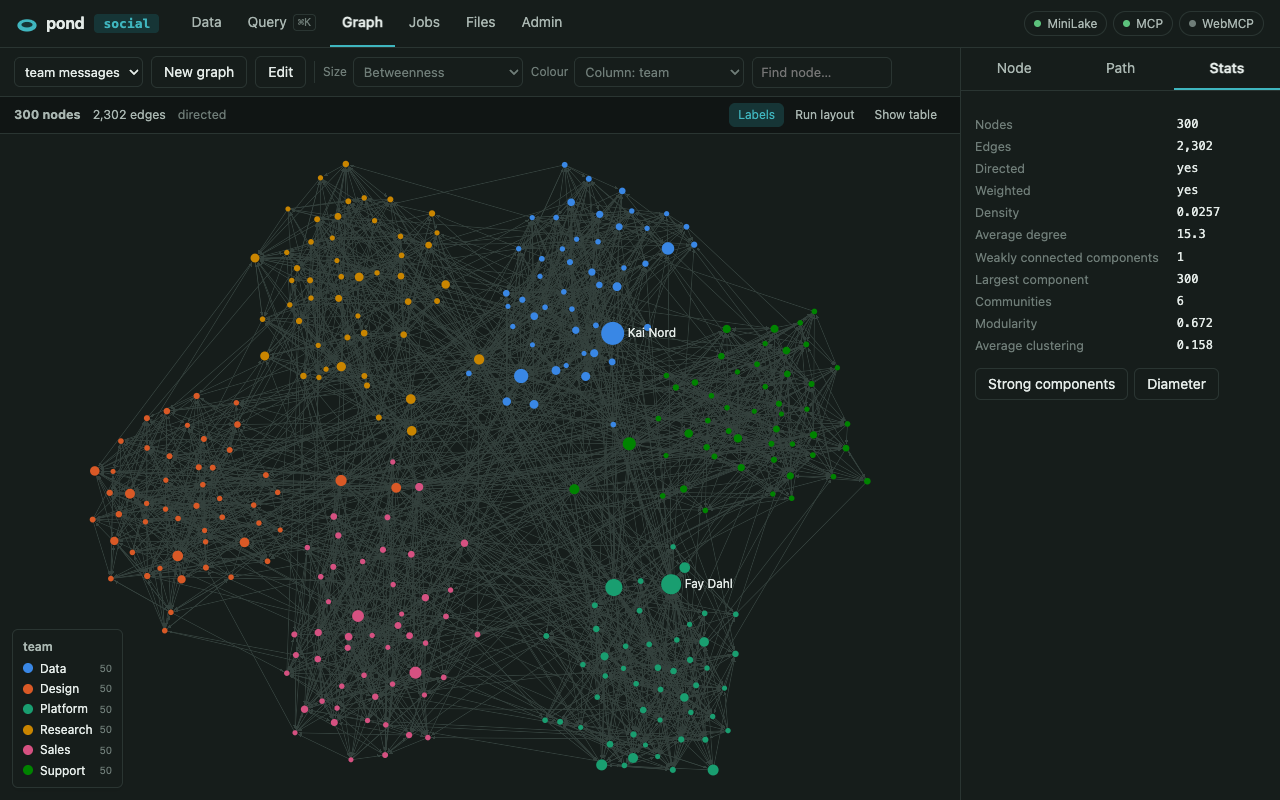
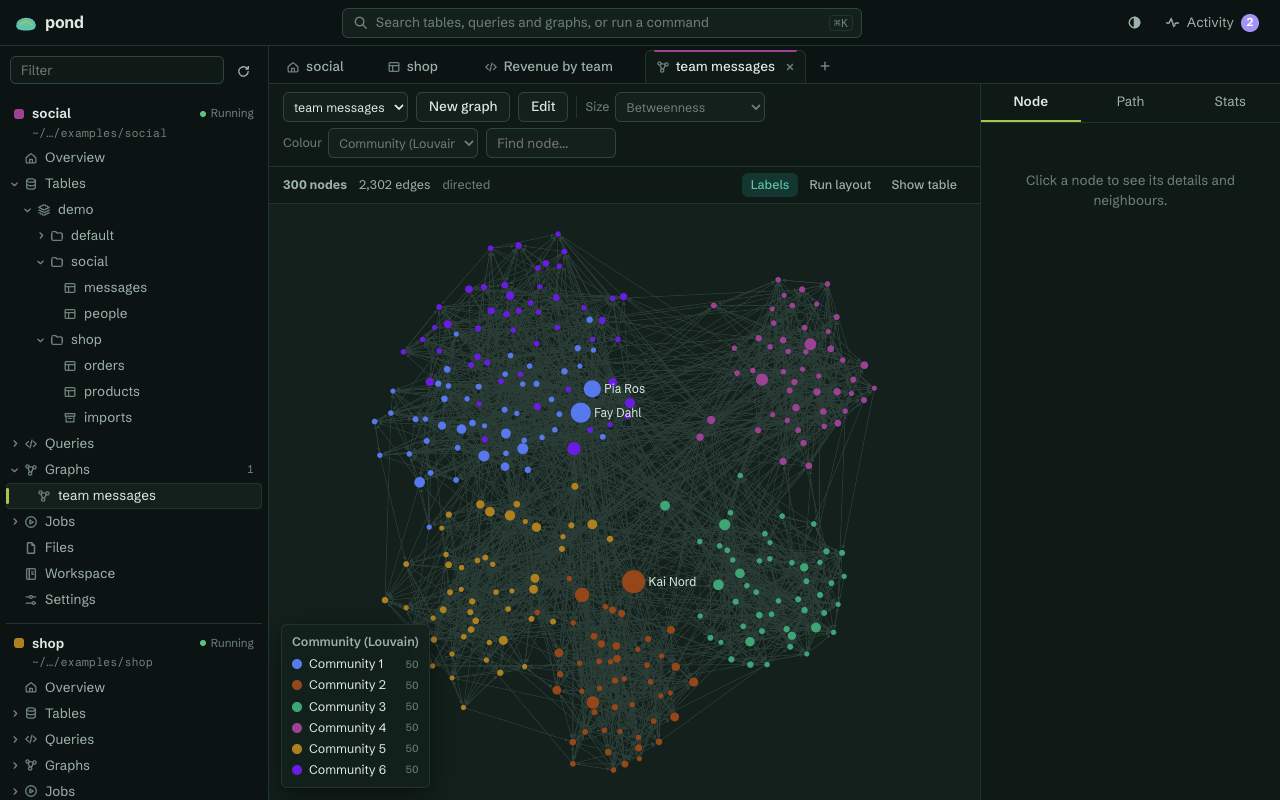
Add a second example context and document the workbench
examples/shop is a small shop whose customers are examples/social's
people, for trying Copy to… and joins across contexts. The README
describes the workbench, multiple contexts and POND_UI_DIR, with new
screenshots.

diff --git a/README.md b/README.md
@@ -1,12 +1,12 @@
 # pond
 
-A local data lake per directory. Run `pond` in a folder and you get a [MiniLake](https://dmux.github.io/minilake) (a local Databricks emulator) for that folder, a web UI to work with it, and **MCP** and **WebMCP** endpoints so agents can work with it too.
+A local data lake per directory. Run `pond` in a folder and you get a [MiniLake](https://dmux.github.io/minilake) (a local Databricks emulator) for that folder, a web UI to work with it, and **MCP** and **WebMCP** endpoints so agents can work with it too. Run it in several folders and one page shows all of their lakes side by side.
 
 Use it to try out Databricks-style catalogs, Delta tables, SQL and PySpark jobs on your own machine, with each project's data kept separate and next to the project.
 
 <picture>
   <source media="(prefers-color-scheme: dark)" srcset="docs/images/graph-dark.png">
-  <img alt="The Graph tab showing the example messaging network: 300 people coloured by team in six clusters, sized by betweenness, with graph statistics in the side panel" src="docs/images/graph-light.png">
+  <img alt="The pond workbench with two contexts, social and shop, in the navigator, and the example messaging network open in a graph tab: 300 people coloured by community in six clusters" src="docs/images/graph-light.png">
 </picture>
 
 ## Requirements
@@ -97,7 +97,9 @@ Each directory is its own **context**, so data from different projects never mix
 - **One MiniLake container** runs per context, named `pond-<name>-<hash>-minilake`, on its own Docker network, `pond-<name>-<hash>`. MiniLake's Spark job containers join that network, so they are scoped to the context and can call back into its MiniLake.
 - **The URL is stable.** The context remembers its UI port, so an MCP registration keeps pointing at the same context. If another program holds that port, pond uses a free one for that run and tells you which MCP registrations won't reach it.
 - **One pond per context.** The running pond holds a lock on `.pond/lock`, so a second `pond` in the same directory points you at the first one instead of starting another lake.
-- **The context name is visible everywhere:** in the terminal banner, the UI header, the browser tab title, the suggested MCP server name and WebMCP's `get_view` tool.
+- **The context name is visible everywhere:** in the terminal banner, the UI's navigator and tabs (each context has its own colour), the browser tab title, the suggested MCP server name and WebMCP's `get_view` tool.
+- **Every pond's UI shows every context.** Open any of them and the navigator lists all running contexts, plus recently used ones that are stopped, with the command to start them. Tables, queries and graphs from different directories open as tabs side by side. Requests for another context go through the pond you have open, so the page stays on one origin. MCP stays per context, so an agent works in one lake at a time.
+- **Copy a table between contexts** with **Copy to…** on its page. It is copied as it is then, through a Parquet file, so the copy doesn't change when the original does.
 
 Ctrl-C stops the context gracefully (MiniLake snapshots its state), then removes every container on the context's network and the network itself. If pond was killed, the next `pond` in that directory cleans up the leftovers first.
 
@@ -135,7 +137,9 @@ pond examples/social
 
 ![Terminal output of pond up seeding the example, and pond ls listing the running context](docs/images/cli.png)
 
-In the **Data** tab, open `demo.social.messages`, choose **Open as graph**, and pick `demo.social.people` as the node table with `name` as the label.
+In the navigator, open **Tables** → `demo` → `social` → `messages`, choose **Open as graph**, and pick `demo.social.people` as the node table with `name` as the label.
+
+[`examples/shop`](examples/shop/pond-seed) is a second context: a web shop with products and 1,200 orders whose customer ids are the people of `examples/social`. Run both (`pond examples/social` and `pond examples/shop` in two terminals) to try working across contexts: copy `shop.sales.orders` into `social` with **Copy to…**, then join it with `demo.social.people` there.
 
 ## Snapshots
 
@@ -155,14 +159,24 @@ Whether shared or not, pond refuses requests to the lake that another web page s
 
 ## UI
 
-| Section | What you can do |
+The UI is a workbench:
+
+- **The navigator** on the left lists each context with its tables (catalog → schema → table), saved queries, graphs and jobs, plus its files, workspace and settings. Filter it from the box at the top.
+- **Tabs** hold what you open: a table, a query, a graph, a job run. Following a link inside a tab replaces what it shows, and ⌘-click (Ctrl-click) opens a new tab instead. Tabs, and what is expanded in the navigator, survive a reload.
+- **⌘K** (Ctrl-K) searches tables, saved queries, graphs and jobs across every context, and runs commands such as **New query**, **Import a file** or switching the theme.
+- **Activity**, on the right, lists what you and agents did in this page. It also holds the setting that lets agents delete or replace data without asking.
+
+| Tab | What you can do |
 | --- | --- |
-| **Data** | Browse catalogs → schemas → tables and volumes. Create and drop catalogs, schemas and volumes; drop tables. Import CSV, TSV, JSON, JSON Lines or Parquet into a table by dropping a file anywhere (create, replace or append). Table pages show columns, a preview and storage details. |
-| **Query** | SQL editor (⌘↵ runs, ⌘S saves, ⌘K jumps here), result grid, CSV export, saved queries and the lake's query history. MiniLake runs the DuckDB dialect, not Spark SQL. |
+| **Overview** | A context at a glance: its tables with row counts, recent queries, saved queries and graphs, recent runs, and how to connect an agent. Drop a file on it to import it. |
+| **Tables** | Browse catalogs → schemas → tables and volumes. Create and drop catalogs, schemas and volumes; drop tables. Import CSV, TSV, JSON, JSON Lines or Parquet into a table by dropping a file (create, replace or append). Table pages show a preview, the columns and storage details, and can copy the table to another context. |
+| **Query** | A SQL editor with highlighting (⌘↵ runs, ⌘S saves), result grid, CSV export and the lake's query history. Each query tab keeps its own draft. MiniLake runs the DuckDB dialect, not Spark SQL. |
 | **Graph** | Explore relationships in your tables as an interactive network. See [Graphs](#graphs). |
 | **Jobs** | Write and run Python/PySpark scripts once, or save them as jobs and run them again. Runs show status, duration and output. |
 | **Files** | Browse the lake's files (DBFS and `/Volumes`): upload by drag and drop, create folders, download, delete, preview data files as tables, query a file in place or turn it into a table. Browse and edit workspace scripts, and run them. |
-| **Admin** | Context details, SQL warehouses, secret scopes and keys, MiniLake's services, and resetting this context's lake. |
+| **Settings** | Context details, connecting an agent, SQL warehouses, secret scopes and keys, and resetting this context's lake. |
+
+The theme follows your system; the button next to **Activity** switches between system, light and dark.
 
 <picture>
   <source media="(prefers-color-scheme: dark)" srcset="docs/images/query-dark.png">
@@ -221,7 +235,7 @@ The page registers its actions as tools on `navigator.modelContext` ([spec](http
 | Jobs | `list_jobs`, `list_runs`, `get_run`, `run_script`, `create_job`, `run_job` |
 | Graph | `list_graphs`, `open_graph`, `save_graph`, `graph_metrics`, `graph_stats`, `shortest_path`, `graph_neighbors` |
 | Files | `list_files`, `read_file`, `write_file`, `delete_path`, `list_workspace`, `read_workspace_file`, `write_workspace_file` |
-| Admin | `list_warehouses`, `list_secrets`, `put_secret`, `reset_lake` |
+| Settings | `list_warehouses`, `list_secrets`, `put_secret`, `reset_lake` |
 
 `drop_object`, `delete_path` and `reset_lake` open the same confirmation dialog a person gets, through `requestUserInteraction` when the browser provides it. Tools also ask before they delete or replace data in other ways:
 - `run_sql` with a statement that drops, deletes, truncates or replaces data, anywhere in the SQL;
@@ -246,23 +260,27 @@ go build -ldflags "-X main.version=$(git describe --tags --always)" -o pond .
 
 Pushing a `v*` tag runs the tests, then [GoReleaser](https://goreleaser.com) publishes binaries to GitHub Releases, with the Homebrew cask `pond.rb` attached. Copy it into `Casks/` in [asabla/homebrew-tap](https://github.com/asabla/homebrew-tap) to update `brew install`. CI runs the same tests, plus the linters and `govulncheck`, on every push and pull request.
 
-The UI is embedded in the binary, so UI changes need a rebuild (`go build`) or a fresh `go run`.
+The UI is embedded in the binary, so UI changes need a rebuild (`go build`) or a fresh `go run`. While working on it, set `POND_UI_DIR=web/static` and pond serves the UI from disk instead, so a reload shows your changes.
 
 ```
 main.go                      CLI: up, ls, down, open, logs, seed, reset, export, import, version
 internal/pondctx/            per-directory contexts: containers, network, lock, .pond/ data and snapshots
-internal/server/             embedded UI, MiniLake proxy (/api, /_minilake, /mcp), /pond/config
+internal/server/             embedded UI, MiniLake proxy (/api, /_minilake, /mcp), /pond/config, other contexts (/pond/contexts, /ctx/<id>/)
 internal/lake/               MiniLake calls pond makes itself: warehouse, SQL, catalogs, runs, reset
 internal/seed/               runs pond-seed/ scripts
 web/static/                  UI: plain HTML/CSS/JS modules, no build step
   lake.js                    MiniLake API client, shared by UI and WebMCP
   graph.js                   graph definitions, SQL builders and metrics, shared by UI and WebMCP
-  app.js                     shell: routing, catalog tree, status, agent activity
-  views/                     data, query, graph, jobs, files, admin
+  workbench.js               shell: contexts, navigator, tabs, ⌘K palette, activity, routing
+  editor.js                  code editor with SQL and Python highlighting
+  sql.js                     quote-aware SQL scanner: statements, destructive SQL
+  views/                     home, data, query, graph, jobs, files, admin; one instance per tab
+  fonts/                     Schibsted Grotesk and Fragment Mono, with their licences (OFL)
   vendor/                    sigma.js and graphology browser builds, with their licences
   webmcp.js                  WebMCP tool definitions
 web/test/                    UI unit tests (node --test, no dependencies)
 examples/social/             seed scripts for a generated example network
+examples/shop/               a second example context: a shop whose customers are social's people
 docs/images/                 README screenshots, taken from the example
 ```
 
